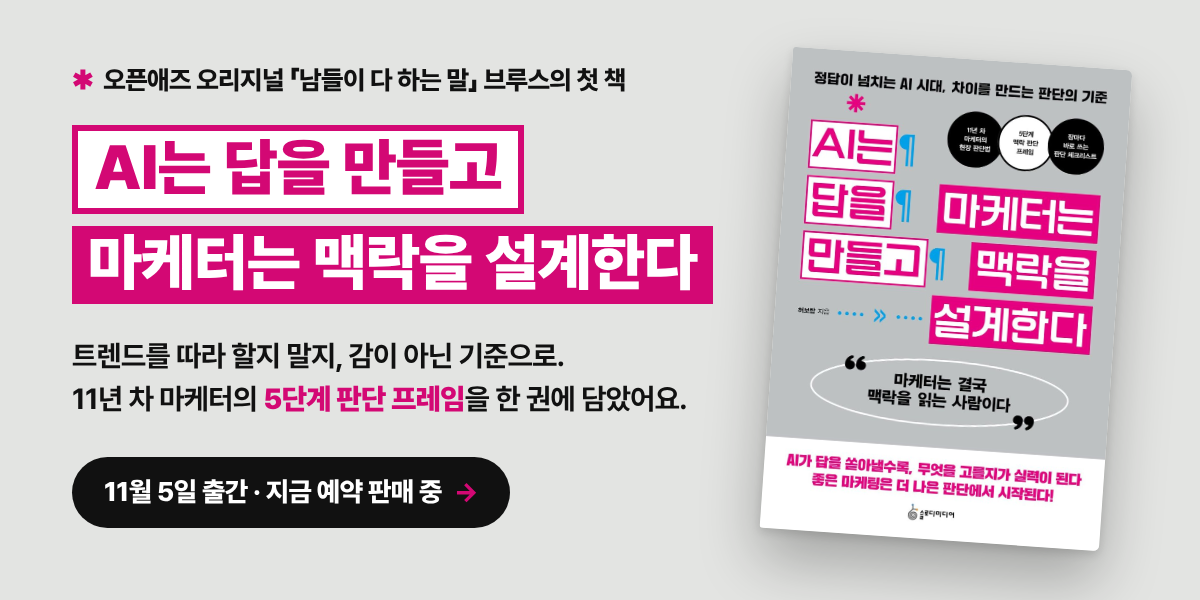
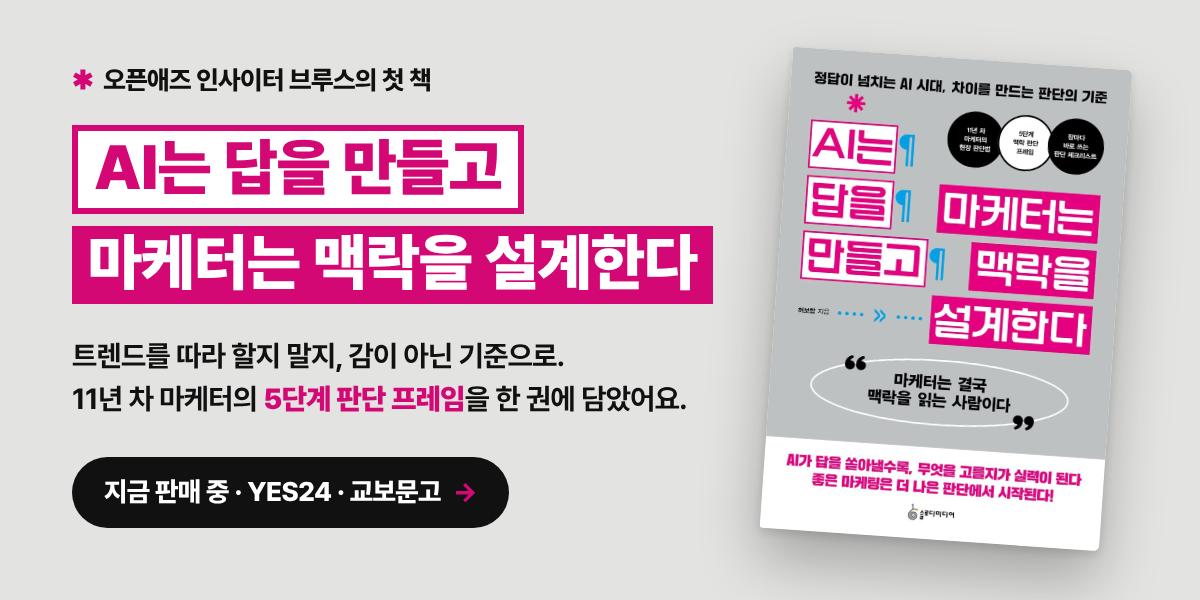
feat: show book contents and buy buttons in the first screen; on-sale copy
Buy buttons move under the subtitle, the 5-part table of contents with
sample chapters replaces the frame chips, and homepage/banner copy now
says 지금 판매 중. Banner kicker: 오픈애즈 인사이터 브루스의 첫 책.

Claude-Session: https://claude.ai/code/session_01SqHxU2fwUKQ6tKJsMf4VhM

Changed region(s): [[0.0925, 0.78, 0.37, 0.84], [0.1542, 0.09, 0.5242, 0.15]]

diff --git a/index.html b/index.html
@@ -108,25 +108,21 @@
 <section class="book-launch" id="book" aria-labelledby="book-title">
   <div class="wrap book-launch__grid">
     <div class="book-launch__copy">
-      <p class="book-launch__kicker"><span class="book-launch__dot" aria-hidden="true"></span>첫 책 출간 · 11월 5일 · 지금 예약 판매 중</p>
+      <p class="book-launch__kicker"><span class="book-launch__dot" aria-hidden="true"></span>첫 책 출간 · 지금 판매 중</p>
       <h2 class="book-launch__title" id="book-title">AI는 답을 만들고<br><em>마케터는 맥락을 설계한다</em></h2>
       <p class="book-launch__sub">정답이 넘치는 AI 시대, 차이를 만드는 판단의 기준</p>
-      <p class="book-launch__desc">
-        11년 동안 현장에서 고르고, 버리고, 틀리며 다듬어 온 판단 기준을 한 권에 담았습니다.
-        조회수는 높았는데 브랜드가 남지 않았던 순간, 좋은 아이디어가 조직을 통과하지 못했던 순간을 되짚으며
-        <strong>무엇을 보고, 무엇을 버리고, 무엇을 남길지</strong> 이야기합니다.
-      </p>
-      <ol class="book-launch__frame" aria-label="5단계 맥락 판단 프레임">
-        <li><b>READ</b>사람의 맥락을 읽는다</li>
-        <li><b>ROOT</b>브랜드의 맥락을 지킨다</li>
-        <li><b>REACH</b>관심을 행동으로 잇는다</li>
-        <li><b>RALLY</b>함께 일할 사람을 모은다</li>
-        <li><b>REMAIN</b>판단을 남긴다</li>
-      </ol>
       <div class="book-launch__cta">
         <a class="btn book-launch__buy" data-book-store="yes24" href="https://www.yes24.com/product/goods/199439514" target="_blank" rel="noopener">YES24에서 구매하기 →</a>
         <a class="btn book-launch__buy book-launch__buy--alt" data-book-store="kyobo" href="https://product.kyobobook.co.kr/detail/S000221776404" target="_blank" rel="noopener">교보문고에서 구매하기 →</a>
       </div>
+      <ol class="book-launch__parts" aria-label="책의 구성: 5단계 맥락 판단 프레임">
+        <li><b>READ</b><span>1부 사람의 맥락을 읽는 일</span><em>사람들은 왜 굳이 불편을 살까 · 광고 같아도 끝까지 보게 만드는 이유</em></li>
+        <li><b>ROOT</b><span>2부 브랜드의 맥락을 지키는 일</span><em>하인즈는 케첩이 아니라 기억을 판다 · 광고는 웃겼는데, 브랜드는 남았나</em></li>
+        <li><b>REACH</b><span>3부 관심을 행동으로 연결하는 일</span><em>후기 1,000개보다 먼저 봐야 할 것 · 인플루언서는 종착지가 아니라 입구다</em></li>
+        <li><b>RALLY</b><span>4부 사람과 함께 일하는 맥락</span><em>“조금 더 임팩트 있게”라는 말의 뜻 · 모두가 반대했고, 한 사람이 믿었다</em></li>
+        <li><b>REMAIN</b><span>5부 AI 시대, 판단을 남기는 일</span><em>11년 차의 경험을 AI에게 인수인계할 수 있을까 · AI가 뭉툭한 게 아니라 내가 뭉툭해지고 있었다</em></li>
+      </ol>
+      <p class="book-launch__note">30개 장 + 장마다 바로 쓰는 판단 노트(체크리스트)</p>
       <p class="book-launch__meta">허보람 지음 · 슬로디미디어 · 184쪽 · 정가 17,000원</p>
     </div>
     <a class="book-launch__cover" data-book-store="yes24" href="https://www.yes24.com/product/goods/199439514" target="_blank" rel="noopener" aria-label="YES24에서 책 보기">

diff --git a/assets/site.css b/assets/site.css
@@ -1450,7 +1450,7 @@ button { font-family: inherit; cursor: pointer; border: none; background: none; 
 .book-launch__dot { width: 8px; height: 8px; border-radius: 50%; background: var(--book-pink); box-shadow: 0 0 0 4px rgba(211, 8, 116, 0.25); }
 .book-launch__title {
   margin: 0;
-  font-size: clamp(32px, 5.4vw, 60px);
+  font-size: clamp(30px, 4.6vw, 52px);
   font-weight: 900;
   line-height: 1.16;
   letter-spacing: -0.035em;
@@ -1485,7 +1485,7 @@ button { font-family: inherit; cursor: pointer; border: none; background: none; 
   color: #C9C8C2;
 }
 .book-launch__frame b { font-size: 12.5px; font-weight: 900; color: #fff; letter-spacing: 0.02em; }
-.book-launch__cta { display: flex; flex-wrap: wrap; gap: 10px; margin-top: 28px; }
+.book-launch__cta { display: flex; flex-wrap: wrap; gap: 10px; margin-top: 24px; }
 .book-launch__buy { background: var(--book-pink); color: #fff; font-weight: 800; }
 .book-launch__buy:hover { background: #E8238C; transform: translateY(-1px); }
 .book-launch__buy--alt { background: #fff; color: #111; }
@@ -1506,7 +1506,9 @@ button { font-family: inherit; cursor: pointer; border: none; background: none; 
   box-shadow: 0 30px 60px rgba(0, 0, 0, 0.55), 0 0 0 1px rgba(255, 255, 255, 0.06);
 }
 @media (min-width: 900px) {
-  .book-launch { padding: 136px 0 88px; }
+  .book-launch { padding: 120px 0 72px; }
+  .book-launch__grid { align-items: start; }
+  .book-launch__cover { margin-top: 40px; }
   .book-launch__grid { grid-template-columns: 1.45fr 1fr; gap: 64px; }
   .book-launch__cover { width: min(100%, 380px); }
 }
@@ -1514,8 +1516,27 @@ button { font-family: inherit; cursor: pointer; border: none; background: none; 
   .book-launch { padding-top: 100px; }
   .book-launch__grid { gap: 28px; }
   .book-launch__desc { display: none; }
+  .book-launch__cta { order: 0; }
   .book-launch__cover { order: -1; width: min(40vw, 160px); }
   .book-launch__cta .btn { flex: 1 1 100%; justify-content: center; }
 }
 .book-launch + .hero { padding-top: clamp(72px, 9vw, 120px); min-height: 0; }
 .nav__link--book { color: var(--accent); font-weight: 800; }
+.book-launch__parts { display: grid; gap: 8px; margin: 24px 0 0; padding: 0; list-style: none; max-width: 640px; }
+.book-launch__parts li {
+  display: grid;
+  grid-template-columns: 76px 1fr;
+  column-gap: 14px;
+  padding: 10px 14px;
+  border: 1px solid rgba(255, 255, 255, 0.14);
+  border-radius: 12px;
+  background: rgba(255, 255, 255, 0.03);
+}
+.book-launch__parts b { grid-row: 1 / span 2; align-self: center; font-size: 13px; font-weight: 900; letter-spacing: 0.04em; color: #FF7DBE; }
+.book-launch__parts span { font-size: 14px; font-weight: 800; color: #fff; }
+.book-launch__parts em { font-style: normal; font-size: 12.5px; line-height: 1.5; color: #A9A8A2; word-break: keep-all; }
+.book-launch__note { margin: 10px 0 0; font-size: 12.5px; font-weight: 700; color: var(--book-gray); }
+@media (max-width: 640px) {
+  .book-launch__parts li { grid-template-columns: 64px 1fr; padding: 9px 12px; }
+  .book-launch__parts em { display: none; }
+}

diff --git a/en/index.html b/en/index.html
@@ -87,13 +87,17 @@
 <section class="book-launch" id="book" aria-labelledby="book-title">
   <div class="wrap book-launch__grid">
     <div class="book-launch__copy">
-      <p class="book-launch__kicker"><span class="book-launch__dot" aria-hidden="true"></span>New book · Out November 5, 2026 · Pre-order now</p>
+      <p class="book-launch__kicker"><span class="book-launch__dot" aria-hidden="true"></span>New book · On sale now</p>
       <h2 class="book-launch__title" id="book-title">AI makes the answers.<br><em>Marketers design the context.</em></h2>
       <p class="book-launch__sub">Judgment criteria that make the difference when answers are everywhere</p>
       <p class="book-launch__desc">
         My first book (in Korean) collects the judgment criteria I have refined over 11 years in the field —
         what to read, what to keep, and what to leave behind when AI can generate endless ideas.
       </p>
+      <div class="book-launch__cta">
+        <a class="btn book-launch__buy" href="https://www.yes24.com/product/goods/199439514" target="_blank" rel="noopener">Buy on YES24 →</a>
+        <a class="btn book-launch__buy book-launch__buy--alt" href="https://product.kyobobook.co.kr/detail/S000221776404" target="_blank" rel="noopener">Buy on Kyobo →</a>
+      </div>
       <ol class="book-launch__frame" aria-label="Five-step context framework">
         <li><b>READ</b>people</li>
         <li><b>ROOT</b>the brand</li>
@@ -101,10 +105,6 @@
         <li><b>RALLY</b>the team</li>
         <li><b>REMAIN</b>what lasts</li>
       </ol>
-      <div class="book-launch__cta">
-        <a class="btn book-launch__buy" href="https://www.yes24.com/product/goods/199439514" target="_blank" rel="noopener">Buy on YES24 →</a>
-        <a class="btn book-launch__buy book-launch__buy--alt" href="https://product.kyobobook.co.kr/detail/S000221776404" target="_blank" rel="noopener">Buy on Kyobo →</a>
-      </div>
       <p class="book-launch__meta">Bruce Heo · Korean edition · 184 pages · ISBN 9791167853325</p>
     </div>
     <a class="book-launch__cover" href="https://www.yes24.com/product/goods/199439514" target="_blank" rel="noopener" aria-label="View the book on YES24">
